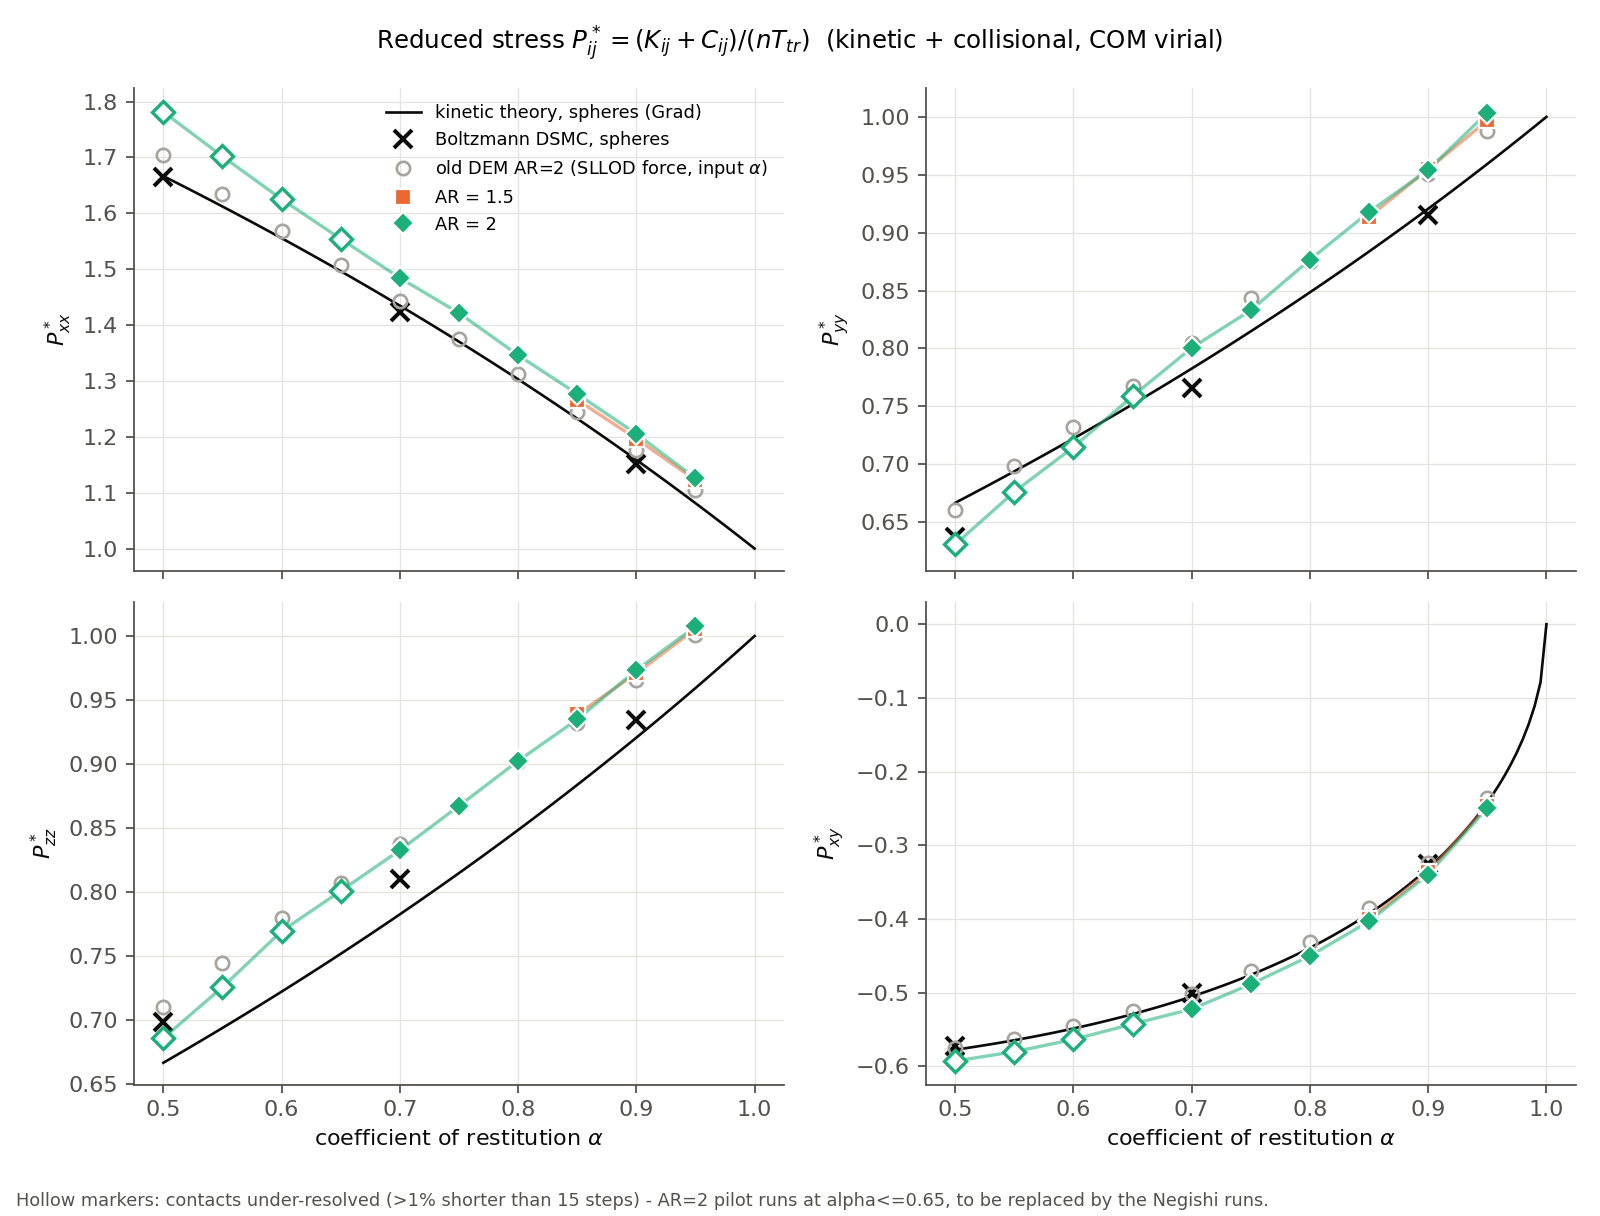
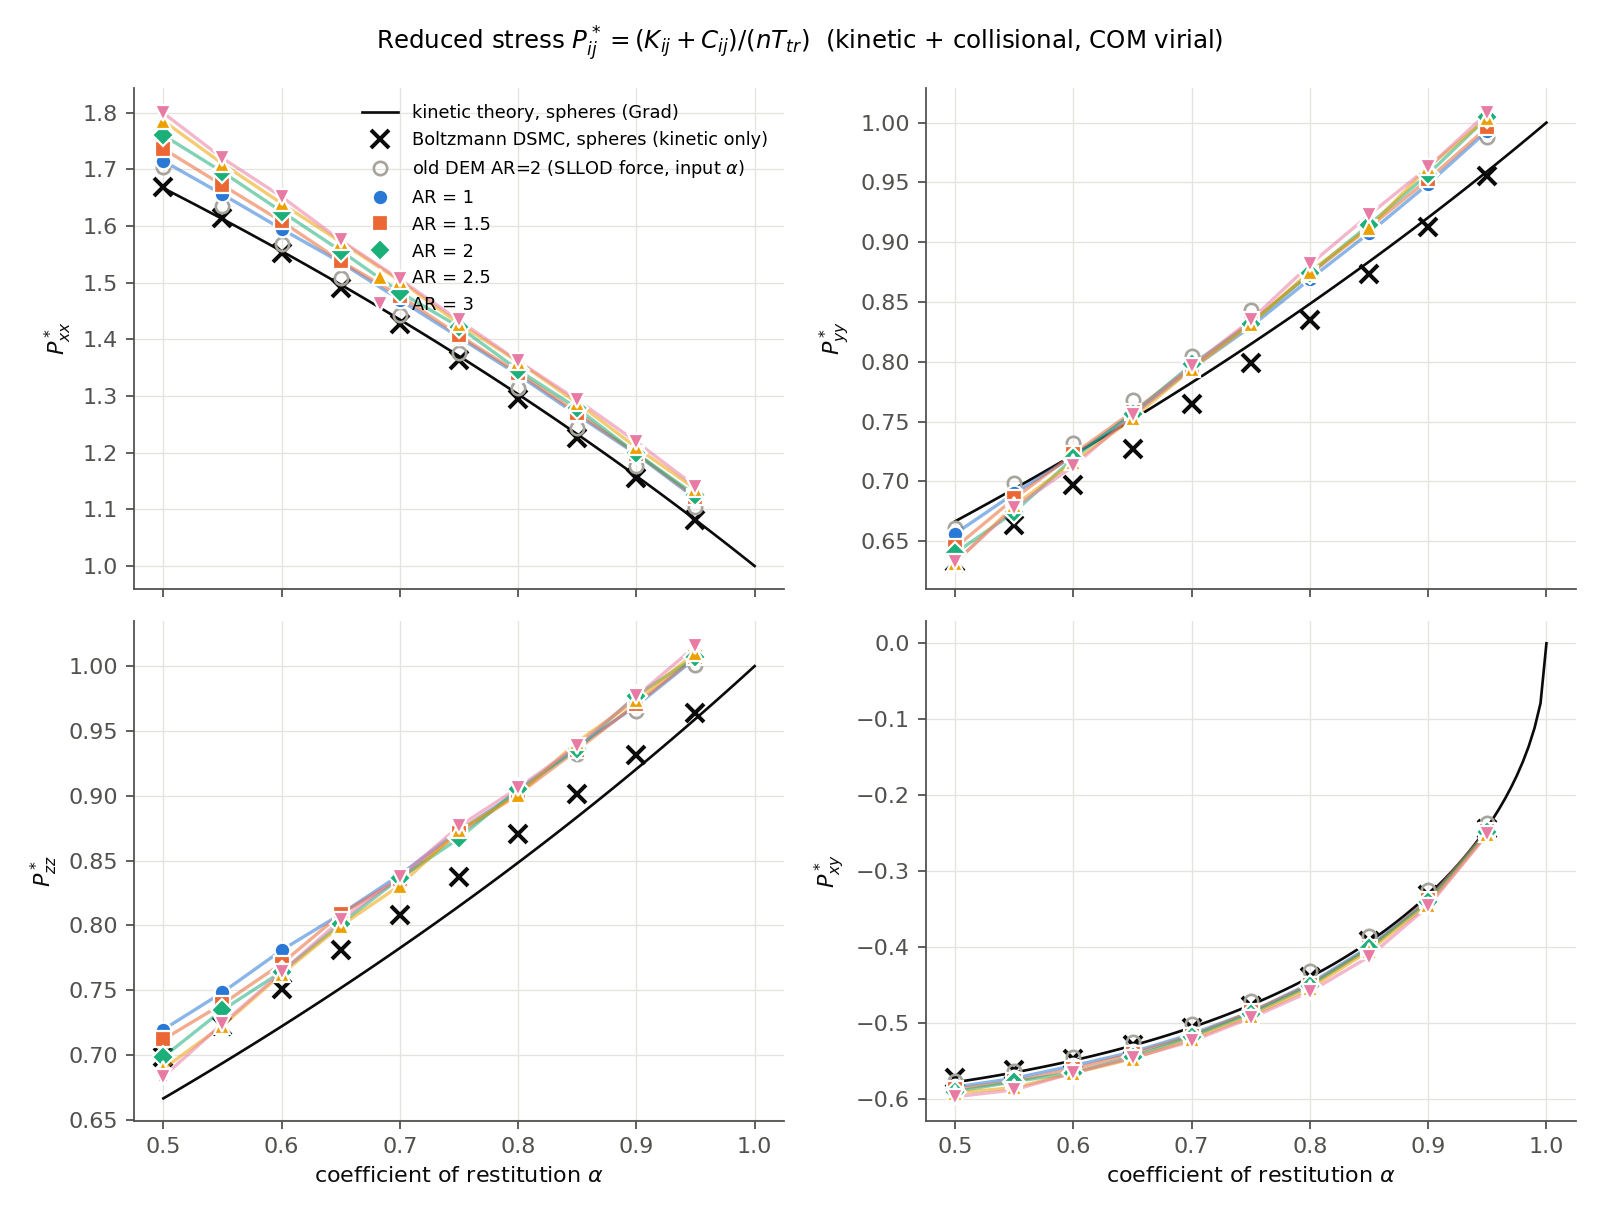
fresh_usf analysis of the 50-case Negishi production
- reference/dsmc_spheres_usf.txt: Boltzmann DSMC for spheres at all alpha, time step
  extrapolated to 0 (dt=0.01 underestimated |P_xy| by up to 3%)
- postprocess: energy-weighted restitution (e_tr_eff, e_c_eff), rapid same-pair
  re-collisions (frac_rehit_0.01tau/0.1tau), flow-direction density mode in notes
- plots: sphere validation vs DSMC (fig7), energy-weighted restitution and re-hits
  (fig4), direction-resolved clustering indicators (fig5), DSMC T* in fig2
- regression T6 reference and dsmc_usf_spheres.py default dt updated
- prepare_cases: throughput measured on Negishi (3x the desktop value)

diff --git a/runs/fresh_usf/plot_fresh_usf.py b/runs/fresh_usf/plot_fresh_usf.py
@@ -14,9 +14,10 @@ Figures
   fig5_structure.png        nematic order S2, density modes S(k), D(4^3), collision-count
                             dispersion (clustering indicators)
   fig6_timeseries_<case>.png   stationarity of one case (T*, P*_xy, energy residual)
+  fig7_sphere_validation.png   AR=1 kinetic stress and T* vs converged Boltzmann DSMC
 
-Cases whose contacts were under-resolved (>1% of contacts shorter than 15 steps;
-the AR=2, alpha<=0.65 pilot runs) are drawn with hollow markers.
+Cases whose contacts were under-resolved (>1% of contacts shorter than 15 steps)
+are drawn with hollow markers.
 """
 import argparse
 import glob
@@ -56,11 +57,18 @@ def grad_spheres(alpha):
     return dict(xx=3 - 2 * pyy, yy=pyy, zz=pyy, xy=-a * pyy / b)
 
 
-DSMC_SPHERES = {  # runs/regression/v2/dsmc_usf_spheres.py (Boltzmann, phi -> 0)
-    0.5: dict(xx=1.6644, yy=0.6373, zz=0.6983, xy=-0.5717),
-    0.7: dict(xx=1.4238, yy=0.7661, zz=0.8101, xy=-0.5006),
-    0.9: dict(xx=1.1507, yy=0.9150, zz=0.9343, xy=-0.3258),
-}
+def load_dsmc():
+    """Boltzmann DSMC for dilute smooth inelastic spheres (kinetic stress only), time step
+    extrapolated to zero: reference/dsmc_spheres_usf.txt (see the header there)."""
+    f = os.path.join(os.path.dirname(os.path.abspath(__file__)), "reference", "dsmc_spheres_usf.txt")
+    out = {}
+    if os.path.exists(f):
+        for row in np.loadtxt(f, comments="#", ndmin=2):
+            out[round(float(row[0]), 3)] = dict(T=row[1], xx=row[2], yy=row[3], zz=row[4], xy=row[5])
+    return out
+
+
+DSMC_SPHERES = load_dsmc()
 
 
 def old_dem(old_root):
@@ -131,7 +139,7 @@ def fig_reduced_stress(rows, old, outdir):
                              ("$P^*_{xx}$", "$P^*_{yy}$", "$P^*_{zz}$", "$P^*_{xy}$")):
         ax.plot(al, [k[comp] for k in kt], color=INK, lw=1.2, label="kinetic theory, spheres (Grad)")
         ax.plot(list(DSMC_SPHERES), [v[comp] for v in DSMC_SPHERES.values()], "x", color=INK,
-                ms=8, mew=1.8, label="Boltzmann DSMC, spheres")
+                ms=8, mew=1.8, label="Boltzmann DSMC, spheres (kinetic only)")
         if old:
             ax.plot(list(old), [v[comp] for v in old.values()], "o", mfc="none", mec="#a6a49d",
                     mew=1.2, ms=6, label="old DEM AR=2 (SLLOD force, input $\\alpha$)")
@@ -157,6 +165,10 @@ def fig_temperatures(rows, old, outdir):
     ax.legend(fontsize=8)
     ax = axs[0, 1]
     plot_series(ax, rows, "Tstar", "Tstar_se", label=False)
+    if DSMC_SPHERES:
+        ax.plot(list(DSMC_SPHERES), [v["T"] for v in DSMC_SPHERES.values()], "x", color=INK, ms=8,
+                mew=1.8, label="Boltzmann DSMC, spheres")
+        ax.legend(fontsize=8)
     ax.set_yscale("log")
     ax.set_ylabel("$T_{tr}/(m\\dot\\gamma^2 d^2)$")
     ax = axs[1, 0]
@@ -194,18 +206,25 @@ def fig_stress_split(rows, outdir):
 
 
 def fig_collisions(rows, outdir):
-    fig, axs = plt.subplots(2, 3, figsize=(13, 7.2), sharex=True)
+    fig, axs = plt.subplots(2, 4, figsize=(17, 7.2), sharex=True)
+    for r in rows:
+        r["e_c_eff_minus"] = r.get("e_c_eff", float("nan")) - r["alpha"]
+        r["e_tr_eff_minus"] = r.get("e_tr_eff", float("nan")) - r["alpha"]
     ax = axs[0, 0]
-    plot_series(ax, rows, "e_c")
-    ax.plot([0.5, 1], [0.5, 1], color=INK, lw=1.0, ls="--", label="$e = \\alpha$")
-    ax.set_ylabel("realised restitution $e_c$ (impulse axis)")
+    plot_series(ax, rows, "e_c_eff_minus")
+    ax.axhline(0.0, color=INK, lw=1.0, ls="--")
+    ax.set_ylabel("$e_{c,eff} - \\alpha$  (contact point, energy-weighted)")
     ax.legend(fontsize=8)
     ax = axs[0, 1]
+    plot_series(ax, rows, "e_tr_eff_minus", label=False)
+    ax.axhline(0.0, color=INK, lw=1.0, ls="--")
+    ax.set_ylabel("$e_{tr,eff} - \\alpha$  (centre of mass, energy-weighted)")
+    ax = axs[0, 2]
+    plot_series(ax, rows, "frac_rehit_0.1tau", scale=100, label=False)
+    ax.set_ylabel("same pair again within 0.1 free time (%)")
+    ax = axs[0, 3]
     plot_series(ax, rows, "frac_long", scale=100, label=False)
     ax.set_ylabel("long contacts, > 5x median (%)")
-    ax = axs[0, 2]
-    plot_series(ax, rows, "frac_same_partner", scale=100, label=False)
-    ax.set_ylabel("collisions with previous partner (%)")
     ax = axs[1, 0]
     plot_series(ax, rows, "frac_multibody", scale=100, label=False)
     ax.set_ylabel("multi-body collisions (%)")
@@ -220,6 +239,9 @@ def fig_collisions(rows, outdir):
     ax.set_yscale("log")
     ax.set_ylim(5e-4, 300)
     ax.set_ylabel("contacts < 15 steps (%)  [sensor R at 1%]")
+    ax = axs[1, 3]
+    plot_series(ax, rows, "frac_same_partner", scale=100, label=False)
+    ax.set_ylabel("collision partner = previous partner (%)")
     for ax in axs[1]:
         ax.set_xlabel("$\\alpha$")
     finish(fig, os.path.join(outdir, "fig4_collisions.png"), INVALID_NOTE)
@@ -227,23 +249,68 @@ def fig_collisions(rows, outdir):
 
 def fig_structure(rows, outdir):
     for r in rows:
-        r["S_low"] = (r["S100"] + r["S010"] + r["S001"]) / 3.0
-    fig, axs = plt.subplots(1, 4, figsize=(15, 3.9), sharex=True)
+        r["S_yz"] = (r["S010"] + r["S001"]) / 2.0
+    fig, axs = plt.subplots(2, 3, figsize=(13, 7.2), sharex=True)
+    axs = axs.flat
     plot_series(axs[0], rows, "S2_nematic")
     axs[0].set_ylabel("nematic order $S_2 = 1.5\\,\\lambda_{max}(\\langle Q\\rangle)$")
     axs[0].legend(fontsize=8)
-    plot_series(axs[1], rows, "S_low", label=False)
-    axs[1].axhline(1.0, color=INK2, lw=0.8, ls=":")
-    axs[1].set_ylabel("$S(k_{min})$, mean of x,y,z modes (ideal gas ~1)")
-    plot_series(axs[2], rows, "D4", label=False)
-    axs[2].axhline(1.0, color=INK2, lw=0.8, ls=":")
-    axs[2].set_ylabel("density dispersion $D(4^3)$ (Poisson 1)")
-    plot_series(axs[3], rows, "collcount_disp", label=False)
-    axs[3].axhline(1.0, color=INK2, lw=0.8, ls=":")
-    axs[3].set_ylabel("collision-count dispersion (Poisson 1)")
-    for ax in axs:
+    for ax, key, lab in ((axs[1], "S100", "$S(k)$, box-length density mode along flow x"),
+                         (axs[2], "S_yz", "$S(k)$, box-length modes along y, z (mean)"),
+                         (axs[3], "Jx001", "$u_x$ mode along vorticity z, $J_x(001)$"),
+                         (axs[4], "D4", "density dispersion $D(4^3)$ (Poisson 1)"),
+                         (axs[5], "collcount_disp", "collision-count dispersion (Poisson 1)")):
+        plot_series(ax, rows, key, label=False)
+        ax.axhline(1.0, color=INK2, lw=0.8, ls=":")
+        ax.set_ylabel(lab)
+    for ax in axs[3:]:
         ax.set_xlabel("$\\alpha$")
-    finish(fig, os.path.join(outdir, "fig5_structure.png"), INVALID_NOTE)
+    finish(fig, os.path.join(outdir, "fig5_structure.png"),
+           "Ideal gas: S(k) = 1, J = 1. Hard-core value at phi = 0.01: S(0) ~ 0.92. Lees-Edwards box: mode 100 is "
+           "the sheared (co-moving) flow-direction wave.")
+
+
+def fig_sphere_validation(rows, outdir):
+    sph = sorted([r for r in rows if r["AR"] == 1.0], key=lambda r: r["alpha"])
+    al = [r["alpha"] for r in sph if round(r["alpha"], 3) in DSMC_SPHERES]
+    if not al:
+        return
+    ref = [DSMC_SPHERES[round(a, 3)] for a in al]
+    sp = [r for r in sph if round(r["alpha"], 3) in DSMC_SPHERES]
+    fig, axs = plt.subplots(1, 2, figsize=(12, 4.6))
+    ax = axs[0]
+    for comp, col, mk in (("xx", "#2a78d6", "o"), ("yy", "#eb6834", "s"), ("zz", "#1baf7a", "D"),
+                          ("xy", "#eda100", "^")):
+        y = [100 * (r["Pk_" + comp] - d[comp]) / abs(d[comp]) for r, d in zip(sp, ref)]
+        e = [100 * r["Pk_" + comp + "_se"] / abs(d[comp]) for r, d in zip(sp, ref)]
+        ax.errorbar(al, y, yerr=e, fmt=mk + "-", color=col, mec="white", lw=1.5, capsize=2,
+                    label=f"$P^{{k*}}_{{{comp}}}$")
+    ax.axhspan(-1, 1, color=GRID, zorder=0)
+    ax.axhline(0, color=INK, lw=1.0)
+    ax.set_ylabel("DEM kinetic stress vs DSMC (%)")
+    ax.set_xlabel("$\\alpha$")
+    ax.legend(fontsize=8, ncol=2)
+    ax.set_title("spheres: kinetic stress (DSMC has no collisional transfer)", fontsize=10)
+    ax = axs[1]
+    y = [100 * (r["Tstar"] - d["T"]) / d["T"] for r, d in zip(sp, ref)]
+    e = [100 * r["Tstar_se"] / d["T"] for r, d in zip(sp, ref)]
+    ax.errorbar(al, y, yerr=e, fmt="o-", color="#2a78d6", mec="white", lw=1.5, capsize=2,
+                label="DEM $T^*$ vs DSMC at the input $\\alpha$")
+    # expected shift if the gas experiences the energy-weighted restitution instead of alpha
+    ga = np.array(sorted(DSMC_SPHERES))
+    lnT = np.log([DSMC_SPHERES[a]["T"] for a in ga])
+    dlnT = np.gradient(lnT, ga)
+    pred = [100 * np.interp(r["alpha"], ga, dlnT) * (r.get("e_tr_eff", r["alpha"]) - r["alpha"]) for r in sp]
+    ax.plot(al, pred, "--", color=INK, lw=1.2,
+            label="expected from $e_{eff}-\\alpha$ (soft-contact obliquity)")
+    ax.axhline(0, color=INK, lw=1.0)
+    ax.set_ylabel("DEM $T^*$ vs DSMC (%)")
+    ax.set_xlabel("$\\alpha$")
+    ax.legend(fontsize=8)
+    ax.set_title("spheres: temperature", fontsize=10)
+    finish(fig, os.path.join(outdir, "fig7_sphere_validation.png"),
+           "DSMC: Boltzmann, phi -> 0, time step extrapolated to 0 (reference/dsmc_spheres_usf.txt). "
+           "Grey band: +-1%. Error bars: DEM block standard errors.")
 
 
 def fig_timeseries(case, root, outdir):
@@ -279,6 +346,7 @@ def main():
     ap.add_argument("root", nargs="?", default=here)
     ap.add_argument("--old", default=os.path.join(here, "..", "USF"))
     ap.add_argument("--nblocks", type=int, default=10)
+    ap.add_argument("--ts", nargs="+", default=["AR2/a0.70"], help="cases for time-series figures")
     a = ap.parse_args()
     outdir = os.path.join(a.root, "analysis")
     os.makedirs(outdir, exist_ok=True)
@@ -295,16 +363,19 @@ def main():
         print("no finished cases under", a.root)
         return
     print(f"{len(rows)} finished cases ({sum(r['valid'] for r in rows)} well resolved)")
+    global INVALID_NOTE
+    if all(r["valid"] for r in rows):
+        INVALID_NOTE = None
     old = old_dem(a.old) if os.path.isdir(a.old) else {}
     fig_reduced_stress(rows, old, outdir)
     fig_temperatures(rows, old, outdir)
     fig_stress_split(rows, outdir)
     fig_collisions(rows, outdir)
     fig_structure(rows, outdir)
-    for r in rows:
-        if r["valid"] and abs(r["alpha"] - 0.7) < 1e-6:
-            fig_timeseries(os.path.join(a.root, r["case"]), a.root, outdir)
-            break
+    fig_sphere_validation(rows, outdir)
+    for c in a.ts:
+        if os.path.exists(os.path.join(a.root, c, "prod.stress")):
+            fig_timeseries(os.path.join(a.root, c), a.root, outdir)
 
 
 if __name__ == "__main__":

diff --git a/runs/fresh_usf/postprocess_fresh_usf.py b/runs/fresh_usf/postprocess_fresh_usf.py
@@ -116,6 +116,32 @@ def summarise(case, nb):
     for ab in ("xx", "yy", "zz", "xy"):
         rows["fabric_" + ab] = wavg("nn_" + ab)
 
+    # per-collision records (all collisions of a sampled subset of pairs)
+    #   e_*_eff: energy-weighted restitution sqrt(sum g_post^2 / sum g_pre^2) -- the value that
+    #            sets the dissipation (the per-collision mean e_c/e_tr weights grazing hits equally)
+    #   frac_rehit_*: same pair collides again within 0.01 / 0.1 mean free times (rotation-driven
+    #            multiple impacts of one encounter for rods; DSMC treats an encounter as one event)
+    evf = os.path.join(case, "prod.events")
+    if os.path.exists(evf) and os.path.getsize(evf) > 0:
+        ev = load(evf)
+        ce = cols(evf)
+        gpre, gpost = np.abs(ev[:, ce["g_n_pre"]]), np.abs(ev[:, ce["g_n_post"]])
+        cpre, cpost = np.abs(ev[:, ce["gc_n_pre"]]), np.abs(ev[:, ce["gc_n_post"]])
+        rows["e_tr_eff"] = float(np.sqrt((gpost**2).sum() / (gpre**2).sum()))
+        rows["e_c_eff"] = float(np.sqrt((cpost**2).sum() / (cpre**2).sum()))
+        dts = [float(x.split("dt=")[1].split()[0]) for x in recal(case)]
+        tau = 1.0 / (rows["nu_over_gdot"] * gd)
+        if dts and np.isfinite(tau):
+            t_end = ev[:, ce["time_end"]]
+            t_beg = t_end - ev[:, ce["dur_steps"]] * dts[-1]
+            ti, tj = ev[:, ce["tag_i"]], ev[:, ce["tag_j"]]
+            key = np.minimum(ti, tj) * 1.0e7 + np.maximum(ti, tj)
+            o = np.lexsort((t_end, key))
+            same = key[o][1:] == key[o][:-1]
+            gap = (t_beg[o][1:] - t_end[o][:-1])[same] / tau
+            rows["frac_rehit_0.01tau"] = float((gap < 0.01).sum() / len(ev))
+            rows["frac_rehit_0.1tau"] = float((gap < 0.1).sum() / len(ev))
+
     # structure / clustering / orientation
     sr = load(os.path.join(case, "prod.struct"))
     cs = cols(os.path.join(case, "prod.struct"))
@@ -159,8 +185,12 @@ def summarise(case, nb):
         notes.append(f"sensor flags (letter+count of windows): {rows['flags']} of {len(se)} windows")
     if abs(rows["drift_T"]) > 0.03:
         notes.append(f"T differs by {100 * rows['drift_T']:.1f}% between production halves (not stationary?)")
-    if rows["S010"] > 2 or rows["S001"] > 2 or rows["D4"] > 1.3:
-        notes.append(f"density inhomogeneity: S010={rows['S010']:.2f} S001={rows['S001']:.2f} D4={rows['D4']:.2f}")
+    if max(rows["S100"], rows["S010"], rows["S001"]) > 1.5 or rows["D4"] > 1.1:
+        notes.append(f"density inhomogeneity: S100={rows['S100']:.2f} S010={rows['S010']:.2f} "
+                     f"S001={rows['S001']:.2f} D4={rows['D4']:.2f} Jx001={rows['Jx001']:.2f}")
+    if rows.get("frac_rehit_0.1tau", 0) > 0.02:
+        notes.append(f"{100 * rows['frac_rehit_0.1tau']:.1f}% of collisions repeat the same pair within 0.1 "
+                     f"mean free time (multiple impacts of one encounter)")
     if rows["frac_multibody"] > 0.02:
         notes.append(f"{100 * rows['frac_multibody']:.1f}% multi-body collisions (DSMC is strictly binary)")
     if rows["frac_long"] > 0.01:

diff --git a/runs/regression/v2/check_regression.py b/runs/regression/v2/check_regression.py
@@ -161,10 +161,11 @@ try:
     Tstar = T / (m * gd**2)
     P = {k: (st[:, c["K" + k]] + st[:, c["C" + k]]).mean() / (n * T) for k in ("xx", "yy", "zz", "xy")}
     Pyx = ((st[:, c["Kxy"]] + st[:, c["Cyx"]]).mean()) / (n * T)
-    # Boltzmann DSMC (dsmc_usf_spheres.py, alpha=0.7): T*=189.5 ; P* = 1.424 0.766 0.810 -0.501
+    # Boltzmann DSMC, alpha=0.7, time step extrapolated to 0 (runs/fresh_usf/reference/
+    # dsmc_spheres_usf.txt): T*=192.6 ; P* = 1.427 0.765 0.808 -0.506
     # Enskog collisional pressure at phi=0.01 adds ~ 2(1+a) phi g0 = 0.035 to the diagonal
-    ref = {"xx": 1.424 + 0.035, "yy": 0.766 + 0.035, "zz": 0.810 + 0.035, "xy": -0.501}
-    check("T6 sphere USF: T/(m gdot^2 d^2) vs Boltzmann DSMC (189.5)", abs(Tstar / 189.5 - 1) < 0.06,
+    ref = {"xx": 1.427 + 0.035, "yy": 0.765 + 0.035, "zz": 0.808 + 0.035, "xy": -0.506}
+    check("T6 sphere USF: T/(m gdot^2 d^2) vs Boltzmann DSMC (192.6)", abs(Tstar / 192.6 - 1) < 0.06,
           f"T* = {Tstar:.1f}")
     for k in ref:
         check(f"T6 sphere USF: P*_{k} vs DSMC(+Enskog)", abs(P[k] - ref[k]) < 0.04,

diff --git a/runs/regression/v2/dsmc_usf_spheres.py b/runs/regression/v2/dsmc_usf_spheres.py
@@ -1,8 +1,11 @@
 """Homogeneous DSMC for dilute inelastic hard spheres in USF (Boltzmann limit).
 Peculiar-frame free streaming: dc_x/dt = -k*a*c_y (k=1 physical, k=2 = what the
-LAMMPS addforce produces). Units: sigma=1, m=1, a=1. n chosen to match phi=0.01."""
+LAMMPS addforce produces). Units: sigma=1, m=1, a=1. n chosen to match phi=0.01.
+Time-step error is first order in nu*dt (collisions per particle per step): dt=0.01
+underestimates |P_xy| by 0.4% (alpha=0.5) to 3% (alpha=0.95) and T by up to 2%.
+dt=0.0025 is within ~0.3%; runs/fresh_usf/reference/dsmc_spheres_usf.txt is extrapolated to dt=0."""
 import numpy as np, sys
-def run(alpha, k=1.0, N=40000, phi=0.01, a=1.0, dt=0.01, tmax=120.0, seed=1, T0=200.0):
+def run(alpha, k=1.0, N=40000, phi=0.01, a=1.0, dt=0.0025, tmax=120.0, seed=1, T0=200.0):
     rng = np.random.default_rng(seed)
     n = 6*phi/np.pi                      # number density for sigma=1
     c = rng.normal(0, np.sqrt(T0), (N, 3)); c -= c.mean(0)

diff --git a/runs/fresh_usf/negishi/prepare_cases.py b/runs/fresh_usf/negishi/prepare_cases.py
@@ -32,8 +32,8 @@ HERE = os.path.dirname(os.path.abspath(__file__))
 FRESH = os.path.dirname(HERE)
 
 DT_COEF = 1.6e-4          # dt * sqrt(T/m) measured for well-resolved cases
-RATE = 1.4e6              # atom-steps / s / rank, measured on a 6-core (12-thread) Intel
-                          # workstation running 3 cases at once: conservative for Negishi
+RATE = 4.2e6              # atom-steps / s / rank on Negishi (EPYC 7763), measured on the 50-case
+                          # production of Sep 2026 (the desktop value 1.4e6 over-predicted 3x)
 EFF = {4: 1.00, 8: 0.85, 16: 0.65}
 TIME_BINS = [4, 8, 12, 24, 48, 72]
 

diff --git a/CLAUDE.md b/CLAUDE.md
@@ -70,6 +70,14 @@ cd runs/sphcyl
 - dt recalibration must use the MEDIAN contact time (f_diag[23]), never the mean:
   at low alpha ~7% rotation-driven contacts last >5x longer and inflate the mean
   (the first AR2 pilot at alpha<=0.65 ran with 90% under-resolved contacts).
+- Comparing with Boltzmann DSMC: use the KINETIC stress (Pk_* in summary.csv); the
+  collisional part is 3-5% of p at phi=0.01 and standard DSMC has none. The reference
+  DSMC (runs/regression/v2/dsmc_usf_spheres.py) has O(nu*dt) time-step error: dt=0.01
+  gave |P_xy| 3% low at alpha=0.95; runs/fresh_usf/reference/dsmc_spheres_usf.txt is
+  extrapolated to dt=0 (sphere DEM matches it to <1%).
+- Realised restitution != input alpha: spheres e_eff is 1.6% low at alpha=0.5 (finite-
+  stiffness obliquity, ~delta/d * tan^2 theta), explains T* 2% low; rods e_c,eff > alpha
+  (up to +0.11). Use e_tr_eff / e_c_eff (summary.csv, energy-weighted) when matching DSMC.
 - Git: the original .gitignore rule `dump.*` hid src/dump.cpp/.h and `Makefile`
   hid src/Makefile (both fixed). Commit with explicit paths, never `git add -A`
   (runs/ holds GB of outputs). Cluster workflow: runs/fresh_usf/negishi/README.md.
